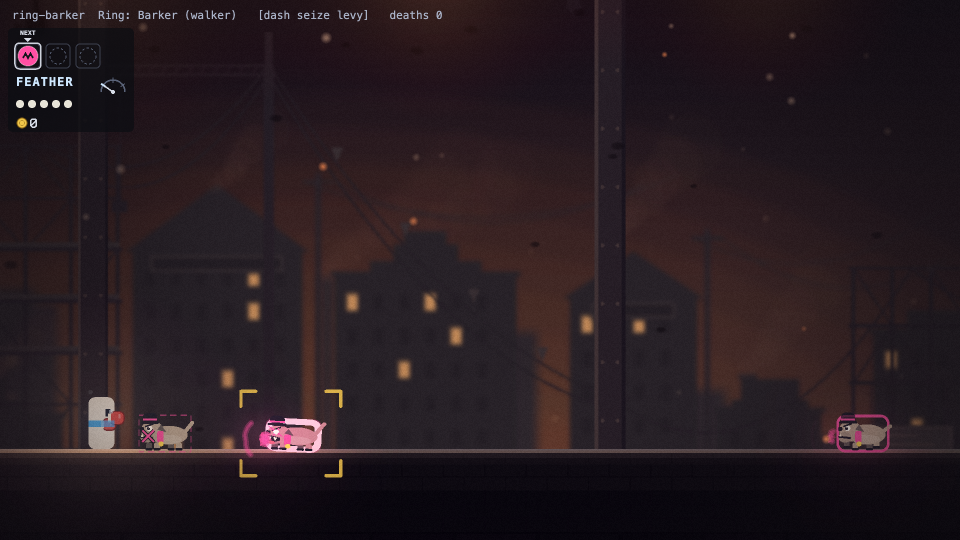
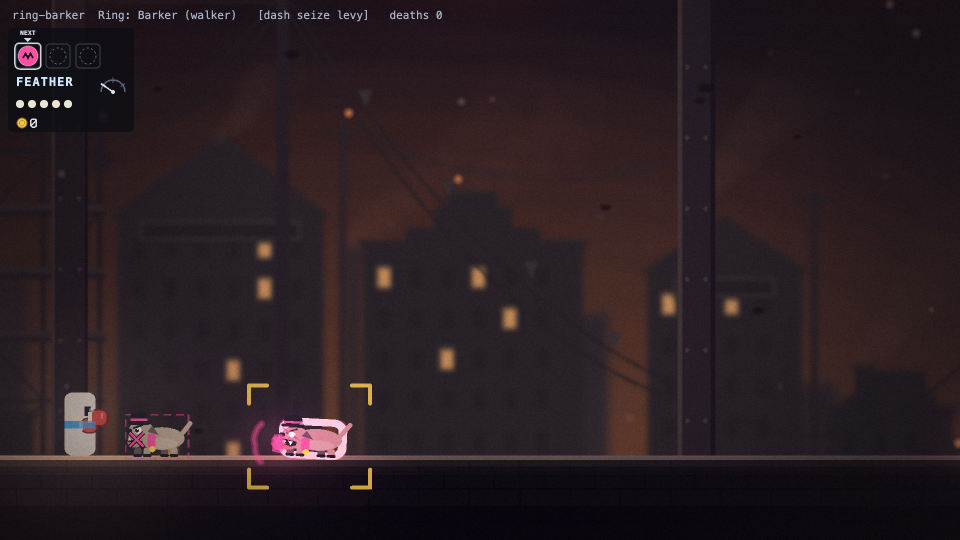
Fun juice: combat framing fits the fight, word priority, showcase script, memory
Combat zoom eases in (up to 1.6x) as far as Kid plus the engaged enemies
still fit; the boss-phase line isn't talked over by hit words; DOWN! sits
beside the Count ring. tools/showcase.sh builds clips/showcase/combat-juice.mp4
from the golden fight tapes with slow motion and offline game audio.
memory/combat-juice.md records how it all fits.

diff --git a/src/render/juice/impact.ts b/src/render/juice/impact.ts
@@ -11,6 +11,7 @@
  */
 import type { HitClass, SimEvent } from '../../sim/events';
 import type { GameState } from '../../sim/index';
+import { VIEW_H, VIEW_W } from '../camera/index';
 import { IMPACT, type ImpactSpec, JUICE } from './tuning';
 
 export interface JSpark {
@@ -56,6 +57,8 @@ export interface JWord {
   size: number;
   angle: number;
   dir: number;
+  /** Priority: a lower one never talks over a higher one (the boss phase line). */
+  pri: number;
 }
 
 export interface JLines {
@@ -244,8 +247,9 @@ export class ImpactDirector {
     this.aberration = Math.max(this.aberration, spec.aberration);
   }
 
-  word(text: string, x: number, y: number, color: number, dir: number, scale: number): void {
-    // One shout at a time: older words get out of the way fast.
+  word(text: string, x: number, y: number, color: number, dir: number, scale: number, pri = 1): void {
+    // One shout at a time: older words get out of the way fast, unless a bigger beat is speaking.
+    if (this.words.some((w) => w.pri > pri && w.age < w.life - 5)) return;
     for (const w of this.words) w.age = Math.max(w.age, w.life - 5);
     this.words.push({
       text,
@@ -255,6 +259,7 @@ export class ImpactDirector {
       life: JUICE.wordLife,
       color,
       size: JUICE.wordSize * scale,
+      pri,
       angle: (this.rand() - 0.5) * 0.3 - dir * 0.06,
       dir,
     });
@@ -301,6 +306,8 @@ export class ImpactDirector {
           break;
         }
         case 'repossess': {
+          // The REPOSSESSED stamp is the word: clear the stage for it.
+          for (const w of this.words) w.age = Math.max(w.age, w.life - 4);
           this.impact(IMPACT.repossess, e.x, e.y, 0, colourOf(e));
           this.startSlow('repossess', e.x, e.y);
           this.inks.push({ x: e.x, y: e.y - 20, age: 0, blobs: this.blobs(9, 70) });
@@ -323,7 +330,11 @@ export class ImpactDirector {
             width: 8,
             delay: 0,
           });
-          this.word('DOWN!', e.x, e.y - 90, 0xffd84a, 1, 1);
+          {
+            // Beside it, away from Kid (the Count ring sits over its head).
+            const side = e.x >= s.player.x + s.player.w / 2 ? 1 : -1;
+            this.word('DOWN!', e.x + side * 130, e.y - 10, 0xffd84a, side, 1);
+          }
           break;
         case 'ko':
           this.trauma = Math.min(1, this.trauma + 0.3);
@@ -349,7 +360,11 @@ export class ImpactDirector {
               width: 12,
               delay: i * 5,
             });
-          this.word('NO RESERVE!', e.x, e.y - 150, 0xff3b3b, 1, 1.6);
+          this.word('NO RESERVE!', e.x, e.y - 150, 0xff3b3b, 1, 1.6, 3);
+          {
+            const w = this.words[this.words.length - 1];
+            if (w) w.life = 80;
+          }
           this.lines.push({ x: e.x, y: e.y, age: 0, life: 24, color: 0xff3b3b, seed: 99 });
           break;
         case 'sold':
@@ -444,21 +459,32 @@ export class ImpactDirector {
     const p = s.player;
     const kx = p.x + p.w / 2;
     const ky = p.y + p.h / 2;
+    // The fight's bounding box: Kid plus every engaged enemy near her.
+    let x0 = kx - p.w;
+    let x1 = kx + p.w;
+    let y0 = ky - p.h;
+    let y1 = ky + p.h;
     let n = 0;
-    let sx = 0;
-    let sy = 0;
     for (const e of s.local.enemies) {
       if (!ENGAGED.has(e.state)) continue;
       const ex = e.x + e.w / 2;
       const ey = e.y + e.h / 2;
       if (Math.abs(ex - kx) > JUICE.combatRange || Math.abs(ey - ky) > JUICE.combatRange * 0.7) continue;
       n++;
-      sx += ex;
-      sy += ey;
+      x0 = Math.min(x0, e.x);
+      x1 = Math.max(x1, e.x + e.w);
+      y0 = Math.min(y0, e.y);
+      y1 = Math.max(y1, e.y + e.h);
     }
     const on = n > 0 && p.state !== 'dead';
-    const tx = on ? kx * (1 - JUICE.combatFocusPull) + (sx / n) * JUICE.combatFocusPull : kx;
-    const ty = on ? ky * (1 - JUICE.combatFocusPull) + (sy / n) * JUICE.combatFocusPull : ky;
+    // Zoom in as far as the whole fight (plus a margin) still fits, up to combatZoom.
+    const fit = Math.min(
+      VIEW_W / (x1 - x0 + 2 * JUICE.combatPadX),
+      VIEW_H / (y1 - y0 + 2 * JUICE.combatPadY),
+    );
+    const target = on ? Math.max(1, Math.min(JUICE.combatZoom, fit)) : 1;
+    const tx = on ? (x0 + x1) / 2 : kx;
+    const ty = on ? (y0 + y1) / 2 : ky;
     if (!this.cfInit) {
       this.cfx = tx;
       this.cfy = ty;
@@ -467,8 +493,7 @@ export class ImpactDirector {
     this.cfx += (tx - this.cfx) * JUICE.combatFocusLerp;
     this.cfy += (ty - this.cfy) * JUICE.combatFocusLerp;
     this.prevCzoom = this.czoom;
-    const target = on ? JUICE.combatZoom : 1;
-    const rate = on ? JUICE.combatZoomIn : JUICE.combatZoomOut;
+    const rate = target > this.czoom ? JUICE.combatZoomIn : JUICE.combatZoomOut;
     this.czoom += Math.max(-rate, Math.min(rate, (target - this.czoom) * 0.08));
   }
 

diff --git a/src/render/juice/tuning.ts b/src/render/juice/tuning.ts
@@ -169,16 +169,18 @@ export const IMPACT: Record<HitClass, ImpactSpec> = {
 
 export const JUICE = {
   /**
-   * Combat framing: the render zooms in this far while an engaged enemy is within combatRange px
-   * of Kid (the Pit framed the whole room: 48 px dogs on a 1920 px screen). Focus = Kid pulled
-   * toward the enemies' centroid; Kid is always kept inside the frame (world.ts).
+   * Combat framing: the render zooms in (up to this, as far as Kid plus every engaged enemy within
+   * combatRange px still fits with combatPad around it; the Pit framed the whole room: 48 px dogs on
+   * a 1920 px screen). Focus = the fight's bounding-box centre; Kid is kept inside the frame (world.ts).
    */
-  combatZoom: 1.3,
+  combatZoom: 1.6,
   combatRange: 900,
-  combatFocusPull: 0.35,
+  /** Padding (world px) kept around the fight's bounding box when choosing the zoom. */
+  combatPadX: 260,
+  combatPadY: 200,
   combatFocusLerp: 0.08,
   /** Max zoom change per step going in / out. */
-  combatZoomIn: 0.006,
+  combatZoomIn: 0.008,
   combatZoomOut: 0.004,
   /** Screen margin (px) Kid is kept inside while zoomed. */
   combatMargin: 160,

diff --git a/src/render/juice/draw.ts b/src/render/juice/draw.ts
@@ -87,7 +87,7 @@ export function drawImpacts(f: Graphics, gl: Graphics, d: ImpactDirector): void 
     const inner = pts.map((v, i) => (i % 2 === 0 ? s.x + (v - s.x) * 0.55 : s.y + (v - s.y) * 0.55));
     f.poly(inner).fill({ color: 0xffffff, alpha: 1 - t * 0.3 });
     gl.poly(pts).fill({ color: s.color, alpha: 0.9 * (1 - t) });
-    gl.circle(s.x, s.y, R * 0.9).fill({ color: 0xffffff, alpha: 0.35 * (1 - t) });
+    gl.circle(s.x, s.y, R * 0.6).fill({ color: 0xffffff, alpha: 0.25 * (1 - t) });
   }
 
   for (const w of d.words) {

diff --git a/memory/combat-juice.md b/memory/combat-juice.md
@@ -1,0 +1,39 @@
+# Combat juice (src/render/juice, src/render/creatures.ts)
+
+Render/audio only; no sim change. Numbers: `src/render/juice/tuning.ts` (`IMPACT` per hit class, `JUICE`).
+
+- **Impact director** (`juice/impact.ts`, pure TS, stepped in `WorldRenderer.onStep`, reseeded by
+  `reset()`): streak sparks, star flash, rings, comic words, speed lines, ink splat, sprung
+  directional kick + trauma shake (added to the camera in world.ts; the camera module has no hit
+  trauma of its own), zoom punch, impact frames, aberration, slow motion. Sparks/stars keep
+  animating through the hitstop on purpose (a frozen spark reads as a still).
+- **Impact frame** = `uImpact.x` in the post shader: two-tone negative (bright -> ink, dark -> hit
+  colour) for 1-3 steps on heavy/counter/catch/repossess/bossPhase. `uImpact.y` = slow-mo drama
+  (desaturate + contrast). Without post (low tier) a flat colour flash is drawn instead.
+- **Render zoom**: `gfx.zoomRoot` holds the light-map sprite, the scene and the overlay, so lights
+  and filters stay registered when it scales (UI is outside). `FrameInput.zoom = {z, ox, oy}`
+  (screen = unzoomed * z + o). `rects()` and the bag HUD map through it. Two zooms compose:
+  **combat framing** (eases to fit Kid + engaged enemies within 900 px, max 1.6; Kid is clamped
+  160 px inside the frame) and the **punch** (about the impact). Zooming in about a point inside
+  the view never shows past the camera's room clamp, so no void.
+- **Slow motion** is render time dilation: `renderer.timeScale()` scales the wall time fed to the
+  fixed-step loop (main.ts); the sim takes the same steps. It starts only after the hitstop ends.
+  In manual mode nothing changes; `npm run clip -- --slowmo` renders extra interpolated frames
+  (`screenshot(scale, {alpha})`), so frame files outnumber sim steps.
+- **Sound made visible** (`juice/soundviz.ts`): tear ribbon on seizeTake (reverse on bagPush/
+  snatch), hum rings (stateless, per colour), voice arcs from the mouth (speed up with a wind-up),
+  levy trails, white static crackle. Tear life is 19 steps: at 24 the ribbon was still over the
+  ghost at E1's cp2 (20 f after the take) and the ghost ratio rose 0.34 -> 0.395 (limit 0.4).
+- **Creatures** (`creatures.ts`): per-type body colour, walk phase keyed to x, blink, hurt face,
+  anticipation poses; `drawEnemy` takes a `toWorld` (the posed body transform) for mouth/eye cues
+  (voice arcs, telegraph glint, dizzy stars). REPOSSESSED = deflate pose + drained colour + stamp.
+  The Auctioneer's patter words are stateless (every 26 f, 3 lanes); they stop when his Patter
+  voice is taken or he's down. Words have priority: the boss phase line isn't talked over.
+- **Audio**: sounds may set `reverb` (send 0..1) for tails; `PlayOpts.delay` sequences one-shots
+  (sack pop 0.25 s after the rip, the coin shower). Hits are thump + crack + body + tail layers.
+- **Clips with sound**: `npm run clip -- --audio` records each step's events + a slim state and
+  renders them offline through the real router (`renderTrack` in src/audio/offline.ts), then muxes.
+  `--setup "<js>"` runs with `g` = `__game` before the script (spawns). Showcase:
+  `tools/showcase.sh [scale]` -> clips/showcase/combat-juice.mp4 from the golden fight tapes.
+- Looking at frames: clip `--keep-frames`, then crop/tile with `magick` (`montage` needs
+  ghostscript fonts, which aren't installed; use `+append`/`-append`).

diff --git a/memory/signature-render.md b/memory/signature-render.md
@@ -21,7 +21,7 @@ Code-drawn Pixi Graphics; render only reads sim state/events.
   contrast 1.6:1): readability-critical shapes must stay out of the LightingFilter.
 - **Determinism:** feedback state (flashes, shake target, sparks, ribbons, needle, gate-open frame) is
   stepped in onStep. Vibration, speckle and motes are functions of `state.frame` (Math.sin is fine
-  in render). Sparks freeze during hitstop; ribbons don't (they are UI).
+  in render). Hit/catch sparks moved to the impact director (combat-juice.md), which animates through the hitstop; ribbons don't freeze (they are UI).
 - **Status rules:** object `ghost` flag → dashed; `pendingSolid` → blinking dashed; white → static.
   Enemy outline per voice (solid+vibrating if home, dashed + mouth "X" if away); a disarmed enemy's
   Snatch telegraph must NOT draw a solid ring (it read as re-armed in the Pit clip). Slab `solid`

diff --git a/memory/README.md b/memory/README.md
@@ -23,3 +23,4 @@ Keep entries current; delete stale ones.
 - [Signature mechanic](signature-mechanic.md) — L3 seize/levy/bag/weight sim: step order, one source component, dynamic solids, bounce integrator, tapes/fuzz/policies/verdict
 - [Combat](combat.md) — L4 sim: data-driven moves/enemies/shots, boss script, Kid's Count, Ringing, hazards, deviations
 - [Combat bots](combat-bots.md) — `npm run combat:report` / `npm run fight`: fighter model, fork-clock gotcha, how to read F1-F8
+- [Combat juice](combat-juice.md) — impact director, impact frames, render zoom/slow-mo, sound-made-visible, creatures, clip --audio/--slowmo, showcase

diff --git a/memory/clip-tool.md b/memory/clip-tool.md
@@ -35,3 +35,4 @@ Options: `--seed` (1), `--pre` settle steps before recording (10), `--scale` of 
 - `--keep-frames` PNGs are numbered from the first *recorded* frame, so file `N` = sim frame `N + pre`
   (default pre 10; `--tape` clips with `--pre 0` line up). Read the burned-in `f123` label to be sure.
 - Thumbnails at 320px are too small for marker letters; use `--sheet events` (480px) or read full frames.
+- `--slowmo` (extra interpolated frames during combat slow motion), `--audio` (offline game audio muxed in), `--setup "<js>"` (page code with `g` = `__game`): see combat-juice.md.

diff --git a/memory/camera.md b/memory/camera.md
@@ -21,3 +21,4 @@
   after the press (the playtest found the old 24 f + 0.06 took ~57 f); C5 asserts <= 32 f.
 - Headless Chromium produces a frame right after timer tasks (no vsync), so the e2e latency test reads
   ~0 ms; it asserts the press is visible in the next rendered frame instead. Real displays add 1-2 vsyncs.
+- Combat hits add no camera trauma here: the impact director (combat-juice.md) adds its own kick/shake and a render zoom on top of the camera's view.
